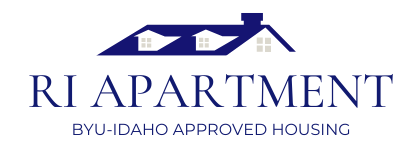
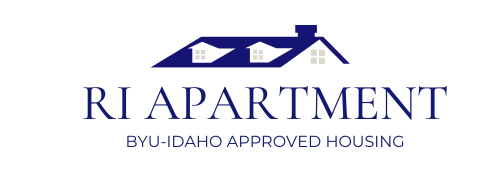
home page css added (partial)

Changed region(s): [[0.0622, 0.4658, 0.9641, 0.6832], [0.2177, 0.0621, 0.7153, 0.4037], [0.1555, 0.7453, 0.8397, 0.8385]]

diff --git a/apartment/index.html b/apartment/index.html
@@ -14,7 +14,7 @@
         <header>
             <div id="logo">
                 <a id="logo_link" href="index.html">
-                    <img class="logo" src="images/rsz_ri_apartment1.png" alt="RI Apartments Logo">
+                    <img class="logo" src="images/RI Apartment1.png" alt="RI Apartment Logo">
                 </a>
             </div>
 
@@ -29,34 +29,38 @@
             <div id="hero-box">
                 <img id="hero-img" src="images/housing.jpg" alt="Housing img">
             </div>
-            <div class='button-box'>
-                <a class='apply' href="apply.html">Apply Now</a>
+            <div class="hero-text">
+                <p> Wonderful apartments that fulfill the needs of the college students. RI Apartments provide a
+                    comfortable housing, friendly community, newly built amenity building. We are here to help you
+                    make great memories about your college experience.
+                </p>
+                <div class='button-box'>
+                    <a class='apply' href="apply.html">Apply Now</a>
+                </div>
             </div>
         </div>
 
         <main>
-            <div>
-                <p> Wonderful apartments that fulfill the needs of the college students.RI Apartments provide a
-                    comfortable housing, friendly community, newly built amenity building. Our apartments can help you
-                    make great memories about your college experience.
-                </p>
-            </div>
-            <div>
+            <div class="floor">
                 <img src="images/rsz_6men.jpg" alt="floor plans img">
-                <h2>Floor Plan</h2>
-                <h3>
-                    Rates starting at: $1100 per semester
-                </h3>
-                <p>
-                    RI Apartments has everything that students are looking for. Learn more about details and reserve your
-                    spot today! Sign now for the best rates of the year!
-                </p>
+                <section>
+                    <h2>Floor Plan</h2>
+                    <h3>
+                        Rates starting at: $1100 per semester
+                    </h3>
+                    <p>
+                        RI Apartments has everything that students are looking for. Learn more about details and reserve
+                        your
+                        spot today! Sign now for the best rates of the year!
+                    </p>
+                    <div>
+                        <a class="apply" href="apply.html">Apply Now</a>
+                        <a class="apply" href="floorplan.html">More Details</a>
+                    </div>
+                </section>
             </div>
-            <div class="apply">
-                <a class="apply" href="apply.html">Apply Now</a>
-                <a href="floorplan.html">More Details</a>
-            </div>
-            <div>
+
+            <div class="amenities">
                 <img src="images/gym.jpg" alt="amenities">
                 <h4>Amenities</h4>
                 <p>
@@ -65,34 +69,37 @@
                     room when you want a quiet environment to study.
                 </p>
             </div>
-            <div>
+            <div class="last">
                 <p>The rooms are filling up fast! Apply now for the nest rates of the year!</p>
+            </div>
+            <div>
+                <a class="apply" href="apply.html">Apply Now</a>
             </div>
         </main>
 
         <footer>
-            <div>
-                <h3>RI Apartments</h3>
-                <section>
+            <h5>RI Apartments</h5>
+            <div id="footer-container">
+                <div class="c1">
                     <h4>Address</h4>
                     <p>945 N 1st W, Rexburg, ID</p>
-                </section>
-                <section>
+                </div>
+                <div class="c2">
                     <h4>Phone Number</h4>
                     <p>(101) 792 - 0945</p>
-                </section>
-                <section>
+                </div>
+                <div class="c3">
                     <h4>Office Hours</h4>
                     <p>Mon - Fri: 10am - 5pm</p>
                     <p>Sat: 10am - 1pm</p>
                     <p>Sun: Closed</p>
-                </section>
-                <section>
+                </div>
+                <div class="c4">
                     <h4><a href="index.html">Home</a></h4>
                     <h4><a href="floorplan.html">Floor Plan</a></h4>
                     <h4><a href="faq.html">FAQ</a></h4>
                     <h4><a href="contactus.html">Contact Us</a></h4>
-                </section>
+                </div>
                 <div class="social">
                     <a href="https://facebook.com" target="_blank">
                         <img src="images/fb_logo.jpg" alt="fb icon" width="50" height="50">

diff --git a/apartment/styles/apt.css b/apartment/styles/apt.css
@@ -1,0 +1,180 @@
+/*Heading Fonts*/
+@import url('https://fonts.googleapis.com/css2?family=Archivo+Black&family=Roboto:wght@700&display=swap');
+
+/*Paragraph Fonts*/
+@import url('https://fonts.googleapis.com/css2?family=Nunito+Sans&family=Open+Sans&display=swap');
+
+#content {
+    max-width: 1600px;
+    margin: 0 auto;
+}
+
+body {
+    background-color: white;
+    font-family: 'open sans', 'nunito sans', sans-serif;
+    font-size: 22px;
+    margin: 0;
+    padding: 0;
+}
+
+header {
+    display: grid;
+    grid-template-columns: 250px auto;
+    grid-template-rows: 100px;
+    position: sticky;
+    top: 0;
+    background-color: white;
+}
+
+nav {
+    display: flex;
+    justify-content: space-around;
+}
+
+
+nav a {
+    text-align: center;
+    align-self: center;
+    text-decoration: none;
+    padding: 35px;
+    color: black;
+    font-weight: bold;
+}
+
+.logo {
+    width: 100%;
+    padding-top: 10px;
+
+}
+
+#logo_link {
+    padding-top: 5px;
+    justify-self: center;
+    align-self: center;
+}
+
+#hero {
+    margin: 0;
+}
+
+#hero-img {
+    display: block;
+    width: 100%;
+    margin: 0;
+}
+
+.hero-text {
+    padding: 20px 200px 20px 200px;
+    text-align: center;
+    background-color: rgb(26, 26, 118);
+    color: white;
+}
+
+.button-box {
+    margin-bottom: 30px;
+}
+
+.apply {
+    text-decoration: none;
+    font-size: 15px;
+    color: white;
+    background-color: rgb(26, 26, 118);
+    padding: 7px;
+    border: 0.5px solid white;
+}
+
+.apply:hover {
+    text-decoration: underline 2px solid;
+    background-color: rgb(56, 56, 204);
+}
+
+
+
+.floor {
+    display: grid;
+    grid-template-columns: 1fr 1fr;
+    grid-column-gap: 20px;
+    margin: 100px;
+}
+
+.floor h2, .floor h3, .floor p {
+    margin-bottom: 50px ;
+}
+
+footer {
+    background-color: rgb(238, 238, 238);
+    padding: 10px;
+}
+
+#footer-container {
+    display: grid;
+    grid-template-columns: 1fr 1fr 1fr 1fr;
+    grid-template-rows: 150px 150px;
+    margin: 0;
+}
+
+.c1 {
+    grid-column: 1/2;
+    grid-row: 1/2;
+}
+
+.c2 {
+    grid-column: 1/2;
+    grid-row: 2/3;
+}
+
+.c3 {
+    grid-column: 2/3;
+    grid-row: 1/2;
+}
+
+.c4 {
+    grid-column: 3/4;
+    grid-row: 1/2;
+}
+
+.social {
+    grid-column: 4/5;
+    grid-row: 1/2;
+}
+
+@media screen and (max-width: 600px) {
+
+    #hero,
+    .home-grid {
+        display: block;
+        height: auto;
+    }
+
+    nav,
+    footer {
+        flex-direction: column;
+    }
+
+    nav a {
+        display: block;
+
+    }
+
+    header {
+        grid-template-rows: auto;
+        grid-template-columns: 235px auto;
+    }
+
+    #hero {
+        margin-top: 0;
+    }
+
+    #hero-msg {
+        margin-top: 0;
+    }
+
+    #hero-msg h4 {
+        display: none;
+    }
+
+
+    footer {
+        margin-top: 25px;
+    }
+}

diff --git a/apartment/styles/site-plan.css b/apartment/styles/site-plan.css
@@ -35,7 +35,7 @@ Fonts are separated by a | */
 /*  Look around below...but DON'T CHANGE ANYTHING! */
 
 body {
-  max-width: 1200px;
+  max-width: 960px;
   margin: 0 auto;
   padding: 4em;
   font-size: 18px;
@@ -44,6 +44,7 @@ body {
 img {
   display: block;
   margin: 0 auto;
+  max-width: 500px;
 }
 h1, h2, h3, h4, h5, h6 {
   font-family: var(--heading-font);

diff --git a/apartment/contactus.html b/apartment/contactus.html
@@ -14,7 +14,7 @@
         <header>
             <div id="logo">
                 <a id="logo_link" href="index.html">
-                    <img class="logo" src="images/rsz_ri_apartment1.png" alt="RI Apartments Logo">
+                    <img class="logo" src="images/RI Apartment1.png" alt="RI Apartment Logo">
                 </a>
             </div>
 

diff --git a/apartment/faq.html b/apartment/faq.html
@@ -14,7 +14,7 @@
         <header>
             <div id="logo">
                 <a id="logo_link" href="index.html">
-                    <img class="logo" src="images/rsz_ri_apartment1.png" alt="RI Apartments Logo">
+                    <img class="logo" src="images/RI Apartment1.png" alt="RI Apartment Logo">
                 </a>
             </div>
 
